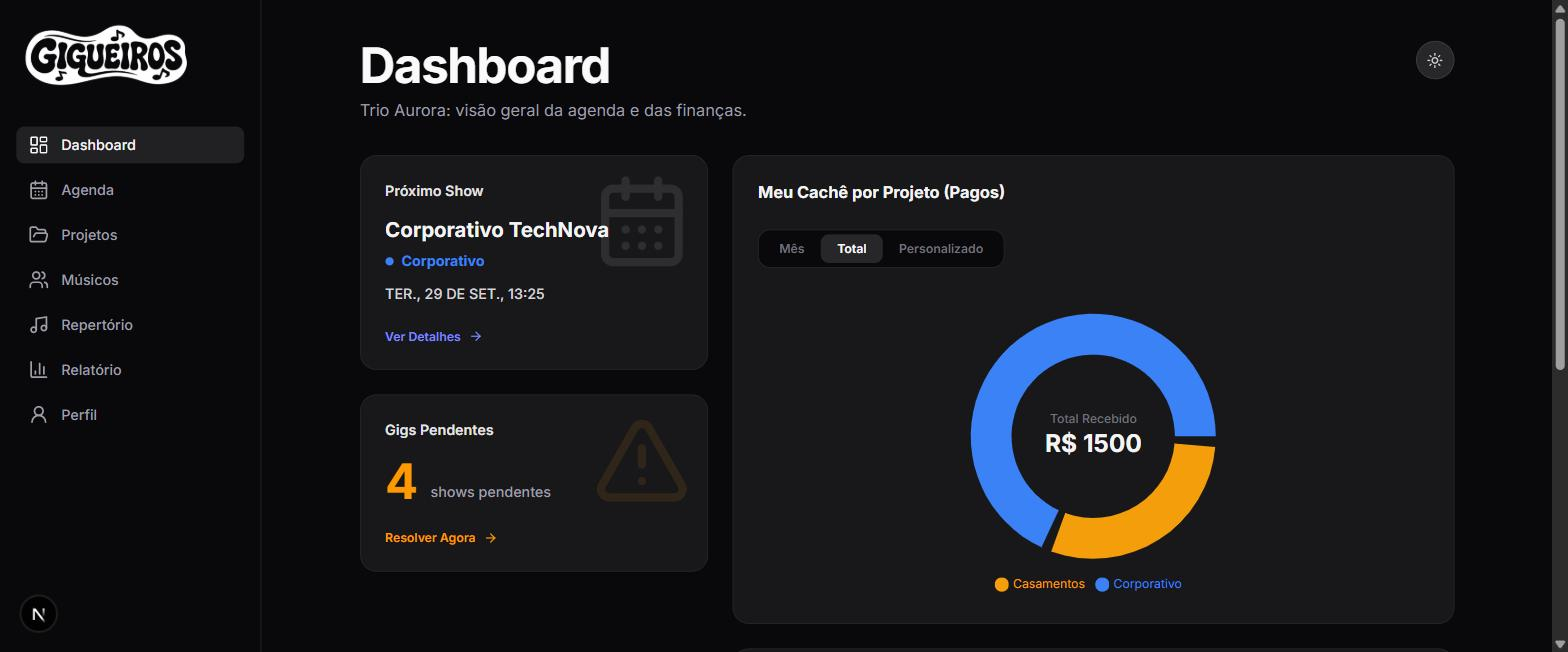
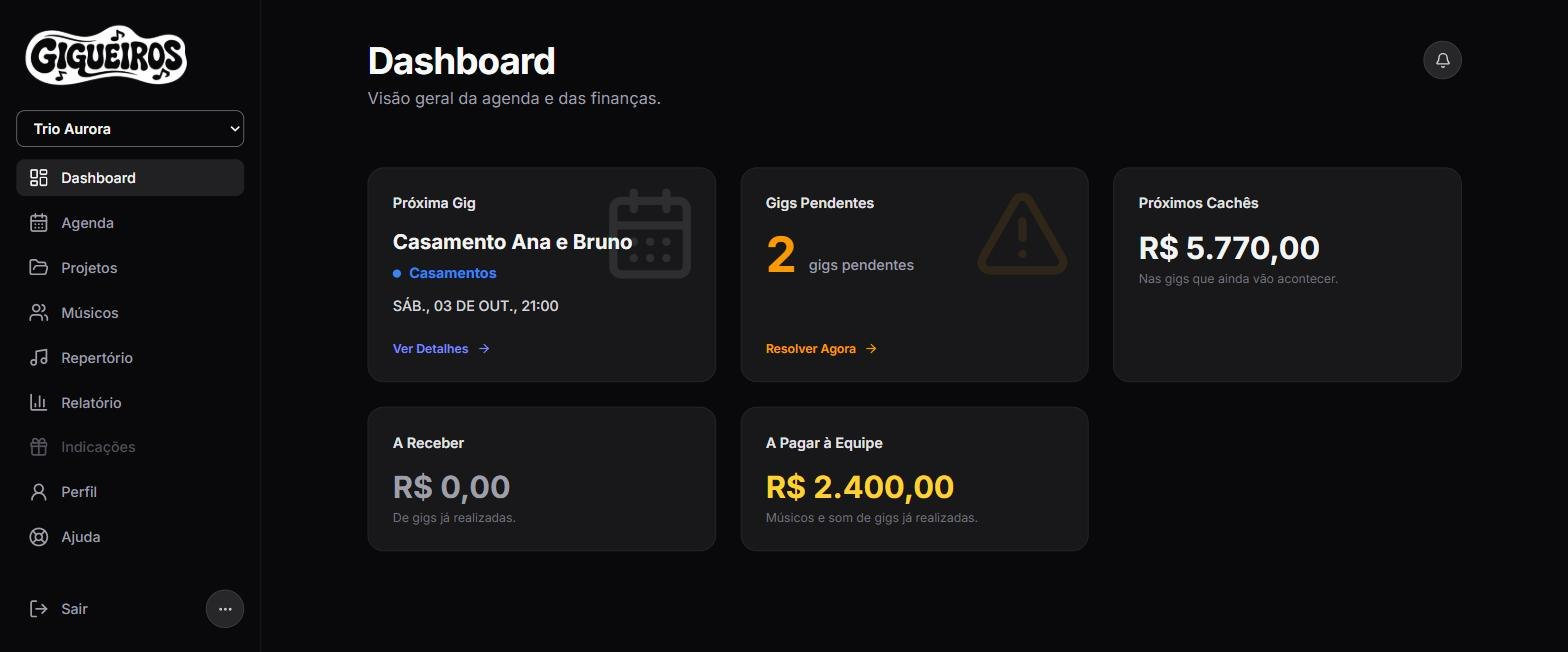
feat(landing): prints novos do app (banda e freela) e fixes do Freela no dashboard e no menu
Claude-Session: https://claude.ai/code/session_01RqmAGwoTxmT1Cm2hJ7zE12

diff --git a/app/page.tsx b/app/page.tsx
@@ -89,16 +89,17 @@ const importSteps = [
   },
 ];
 
-const dashboardDesktop: Shot = { src: '/screenshots/dashboard-desktop.jpg', alt: 'Dashboard do Gigueiros no computador, com próxima gig e gráficos financeiros', width: 1568, height: 652 };
-const dashboardTablet: Shot = { src: '/screenshots/dashboard-tablet.png', alt: 'Dashboard do Gigueiros aberto em um tablet', width: 1004, height: 771 };
-const dashboardMobile: Shot = { src: '/screenshots/dashboard-mobile.png', alt: 'Dashboard do Gigueiros aberto no celular, com navegação inferior de app', width: 478, height: 771 };
+const dashboardDesktop: Shot = { src: '/screenshots/dashboard-desktop.jpg', alt: 'Dashboard do Gigueiros no computador, com a próxima gig, gigs pendentes e os cachês a receber e a pagar', width: 1568, height: 652 };
+const dashboardTablet: Shot = { src: '/screenshots/dashboard-tablet.png', alt: 'Dashboard do Gigueiros aberto em um tablet', width: 1004, height: 640 };
+const dashboardMobile: Shot = { src: '/screenshots/dashboard-mobile.png', alt: 'Dashboard do Gigueiros aberto no celular, com o menu no topo', width: 390, height: 640 };
 
 const slides: Slide[] = [
-  { src: '/screenshots/agenda.jpg', alt: 'Agenda de gigs do Gigueiros, com o calendário do mês e várias gigs marcadas', width: 1536, height: 639, caption: 'Agenda', blurb: 'O mês inteiro de gigs, em calendário ou em lista, com o seu cachê em cada uma.' },
-  { src: '/screenshots/financeiro.jpg', alt: 'Tela de uma gig no Gigueiros mostrando cachê bruto, custos e lucro líquido', width: 1536, height: 639, caption: 'Financeiro de cada gig', blurb: 'Cachê, custos e lucro da gig, e quem já recebeu.' },
-  { src: '/screenshots/repertorio.jpg', alt: 'Catálogo de músicas do repertório no Gigueiros', width: 1536, height: 639, caption: 'Repertório', blurb: 'Catálogo com tom, cifra e letra, e repertórios prontos para qualquer gig.' },
-  { src: '/screenshots/relatorio.jpg', alt: 'Relatório financeiro mensal do Gigueiros, com faturamento, custos e lucro', width: 1536, height: 639, caption: 'Relatório', blurb: 'Faturamento, custos e lucro por mês. No Freela, quanto cada banda te pagou.' },
-  { src: '/screenshots/musicos.jpg', alt: 'Lista de músicos do banco de talentos no Gigueiros', width: 1536, height: 639, caption: 'Músicos', blurb: 'A equipe da banda com instrumento e contato, para escalar em dois toques.' },
+  { src: '/screenshots/agenda.jpg', alt: 'Agenda de gigs do Gigueiros, com o calendário de outubro e as gigs marcadas por projeto', width: 1568, height: 652, caption: 'Agenda', blurb: 'O mês inteiro de gigs, em calendário ou em lista, com o seu cachê em cada uma.' },
+  { src: '/screenshots/financeiro.jpg', alt: 'Tela de uma gig no Gigueiros com cachê bruto, escala, custo do som, despesas e o recebimento do contratante', width: 1568, height: 652, caption: 'Financeiro de cada gig', blurb: 'Cachê, custos e lucro da gig, e quanto o contratante já pagou.' },
+  { src: '/screenshots/repertorio.jpg', alt: 'Catálogo de músicas do Gigueiros, com tom, tom que começa e os repertórios da banda', width: 1568, height: 652, caption: 'Repertório', blurb: 'Catálogo com tom, cifra e letra, e repertórios prontos para qualquer gig.' },
+  { src: '/screenshots/relatorio.jpg', alt: 'Relatório mensal da banda no Gigueiros, com faturamento, custos, lucro previsto e o que falta receber', width: 1568, height: 652, caption: 'Relatório da banda', blurb: 'Faturamento, custos e lucro mês a mês, para o dono da banda.' },
+  { src: '/screenshots/freela.jpg', alt: 'Tela Meus cachês da conta Freela, com cachê recebido e a receber e o total por projeto', width: 1568, height: 652, caption: 'Meus cachês (Freela)', blurb: 'Para quem toca em várias bandas: quanto cada uma já pagou e quanto ainda deve.' },
+  { src: '/screenshots/musicos.jpg', alt: 'Lista de músicos da banda no Gigueiros, com instrumento e músicos fixos', width: 1568, height: 652, caption: 'Músicos', blurb: 'A equipe da banda com instrumento e contato, para escalar em dois toques.' },
 ];
 
 const bandaFeatures = [

diff --git a/components/band-switcher.tsx b/components/band-switcher.tsx
@@ -48,7 +48,10 @@ export function BandFilter({ compact = false }: { compact?: boolean }) {
         startTransition(async () => {
           const res = await switchBand(bandId);
           if (res?.error) toast.error(res.error);
-          else router.refresh();
+          else {
+            window.dispatchEvent(new Event(BANDS_CHANGED)); // the menu (e.g. "Músicos") depends on the accounts in view
+            router.refresh();
+          }
         });
       }}
       className={`rounded-lg border border-zinc-700 bg-zinc-950 font-semibold text-zinc-100 focus:border-zinc-500 focus:outline-none ${

diff --git a/app/dashboard/page.tsx b/app/dashboard/page.tsx
@@ -45,7 +45,8 @@ export default async function DashboardPage() {
       userId={info.userId ?? ''}
       tourSeen={Boolean(profile?.tour_seen_at)}
       freela={info.kind === 'freela'}
-      bandRoles={toBandRoles(info.bands)}
+      // Only the accounts in view: a Banda next to a Freela must not make the Freela's Dashboard talk about "a pagar à equipe".
+      bandRoles={toBandRoles(Object.fromEntries(info.bandIds.map((id) => [id, info.bands[id]])))}
       allBands={info.allBands}
       gigs={allGigs}
       lineups={lineups}

diff --git a/DOCUMENTATION.md b/DOCUMENTATION.md
@@ -858,4 +858,4 @@ Decisão e valores: `docs/decisao-planos-e-precos.md`. Como ficou no código:
 * **Posicionamento:** título "O app de quem vive de tocar", subtítulo para dono de banda e freela, e a seção `#para-quem` (Dono de banda x Músico freela, com a linha "foi convidado entra de graça"). Cada item de "Tudo o que o WhatsApp deixava solto" ganhou a etiqueta "Banda e Freela" ou "Só Banda". O `<title>`, a descrição e o JSON-LD (duas ofertas, Banda e Freela) foram atualizados; rota, âncoras antigas e canonical continuam.
 * **Planos (`#planos`):** dois painéis (Banda com a barra de Fundadores; Freela tracejado), preços lidos de `PRICE_TABLE` (`lib/pricing.ts`), "Tem mais de uma conta?" com os valores de adesão e os fatos do plano (teste de 7 dias na primeira conta, cota de importações). Mudou um preço? Muda em um lugar só.
 * **Carrossel (`components/feature-carousel.tsx`):** substitui o marquee contínuo (removidos o componente antigo e a animação `gg-marquee`). Uma tela por vez, legenda e frase, setas, bolinhas, deslize no celular e setas do teclado. Avança sozinho a cada 9 s só enquanto está na tela e para de vez no primeiro hover, foco, toque ou clique (e nunca com "reduzir movimento").
-* **Pendente:** os prints de `public/screenshots/` ainda são os antigos (mostram "shows" e os gráficos que saíram do Dashboard). Precisam ser refeitos com dados fictícios, como na §48.
+* **Prints (2026-10-02):** refeitos no app da homologação, com uma banda fictícia ("Trio Aurora") e uma conta Freela ("Meus freelas") semeadas por SQL numa conta de teste, sem dado real. Desktop 1568x652; celular (390x640) e tablet (1004x640) saem de um `<iframe>` com essa largura dentro do app logado (ativa o layout mobile de verdade). O carrossel ganhou o slide "Meus cachês (Freela)".
